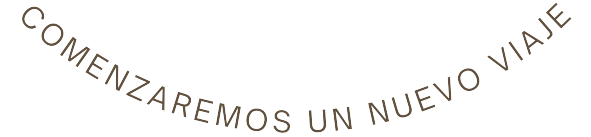
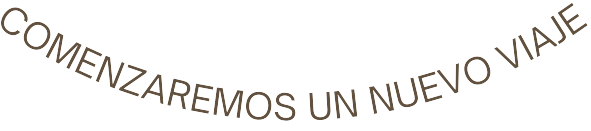
Fix and Feat: Se reemplazó por una mejor imagen y alineó mejor al contenido

Changed region(s): [[0.0, 0.0305, 1.0, 0.9771]]

diff --git a/boda_nicole_ro/src/components/Story/story.module.css b/boda_nicole_ro/src/components/Story/story.module.css
@@ -106,16 +106,15 @@
     width: 400px;
     height: auto;
     margin: auto;
-    margin-top: 25px;
+    margin-top: 50px;
     margin-bottom: 150px;
-    background-color: aqua;
 }
 
 .nuevo_viaje {
     position: absolute;
     width: 250px;
     height: auto;
-    transform: rotate(25deg);
+    transform: rotate(16deg);
     left: 0%;
     top: 0%;
 }
